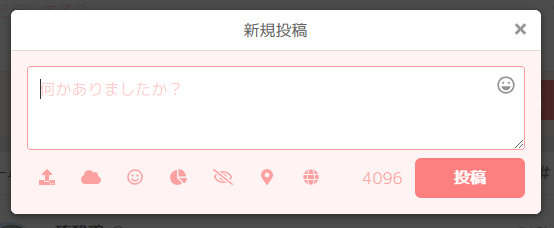
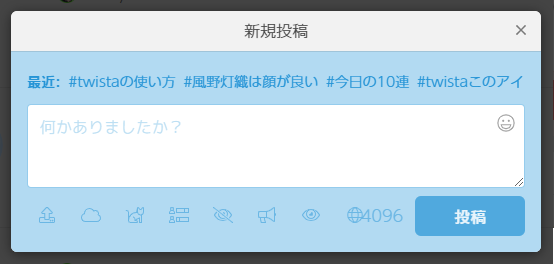
追加構文の追加と投稿画面の更新

diff --git a/kantan.md b/kantan.md
@@ -7,13 +7,16 @@
 |:--:|:--|
 |矢印が生えたなにか|画像などのファイルをアップします → [ドライブ](feature/drive.md)|
 |雲|すでにアップロードした画像などを投稿に埋め込めます → [ドライブ](feature/drive.md)|
-|顔|ランダムで顔文字が入力されます フグパンチとかできます|
-|円グラフ|アンケートができます → [アンケート](feature/enquete.md)|
+|ねこ|ランダムで顔文字が入力されます フグパンチとかできます|
+|グラフ|アンケートができます → [アンケート](feature/enquete.md)|
 |目に斜線|内容を隠します ネタバレ防止とかに使えます|
-|位置情報|位置情報をつけます|
+|メガホン|実況モードにします|
+|目|年齢別の公開範囲を設定します 現状ハリボテです|
 |地球|公開範囲を変えられます → [公開範囲](#公開範囲)|
 
 リンクがある項目はリンク先に詳しい説明があります
+
+入力エリア上部には最近使ったハッシュタグが列挙されます。
 
 ## 公開範囲
 twistaでは投稿を公開する範囲を指定することができます。
